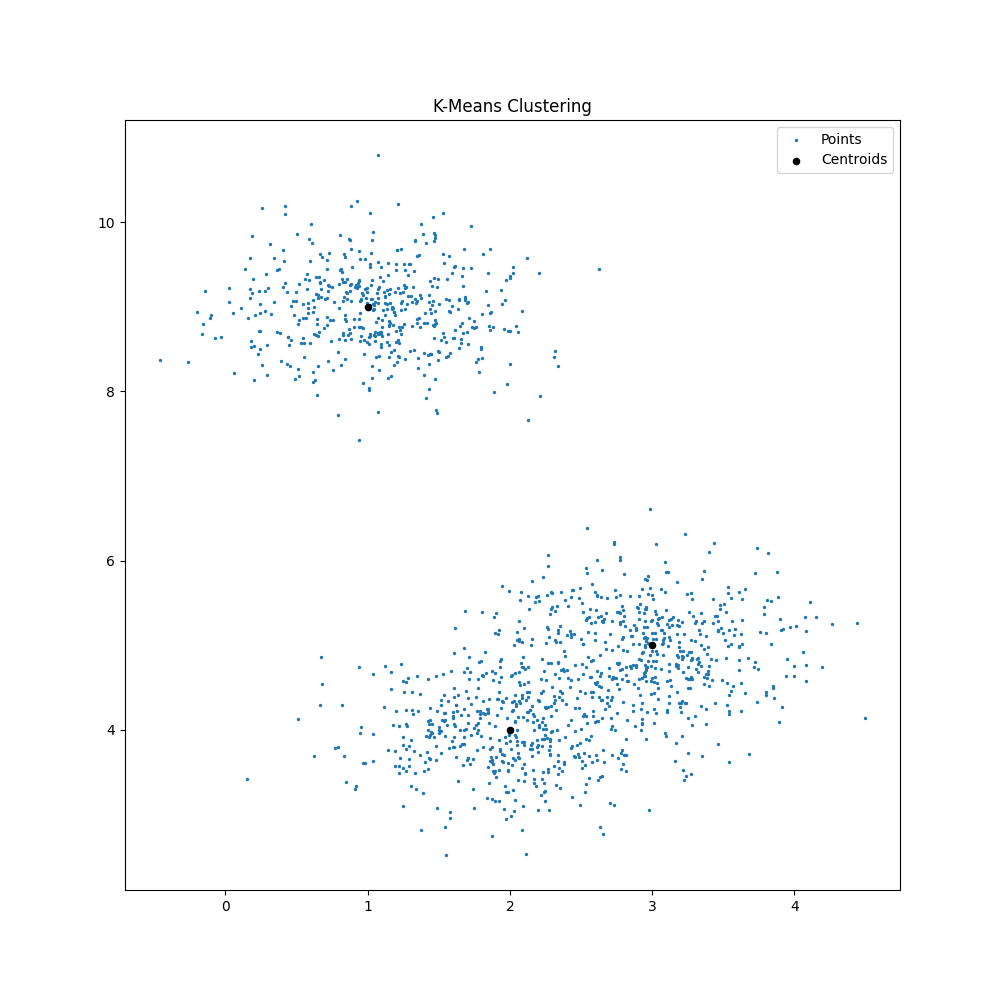
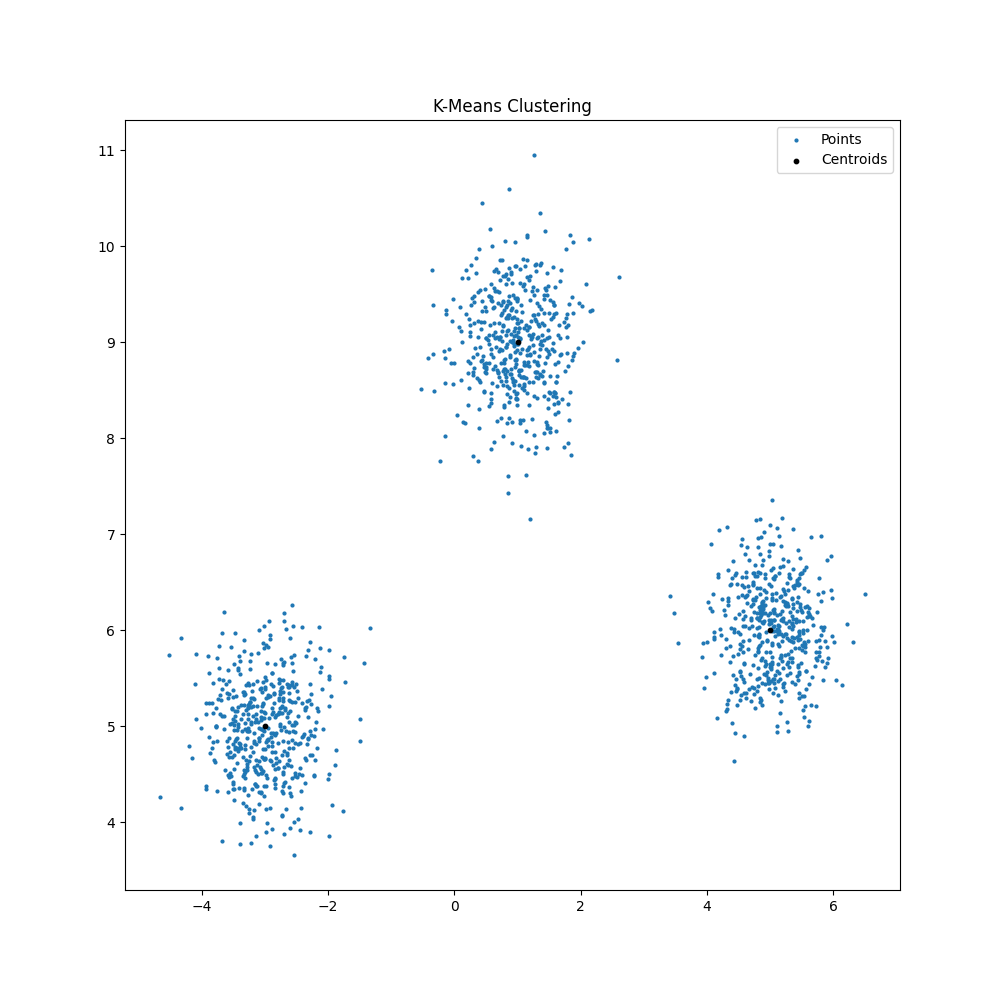
update centriods

diff --git a/day9-thu-23-01/homework/k-means_clusters.py b/day9-thu-23-01/homework/k-means_clusters.py
@@ -1,8 +1,7 @@
 import matplotlib.pyplot as plt
 import random as rd
 
-#centriods = rd.uniform(-10, 10, 3)
-centriods = [[2, 4], [3, 5], [1, 9]]
+centriods = [[5, 6], [-3, 5], [1, 9]]
 
 points = []
 for cx, cy in centriods:
@@ -12,8 +11,8 @@ for cx, cy in centriods:
         points.append([x, y])
 
 plt.figure(figsize=(10, 10))
-plt.scatter([x for x, y in points], [y for x, y in points], s=2, label='Points')
-plt.scatter([x for x, y in centriods], [y for x, y in centriods], s=20, color='black', label='Centroids')
+plt.scatter([x for x, y in points], [y for x, y in points], s=4, label='Points')
+plt.scatter([x for x, y in centriods], [y for x, y in centriods], s=10, color='black', label='Centroids')
 
 plt.legend()
 plt.title('K-Means Clustering')
